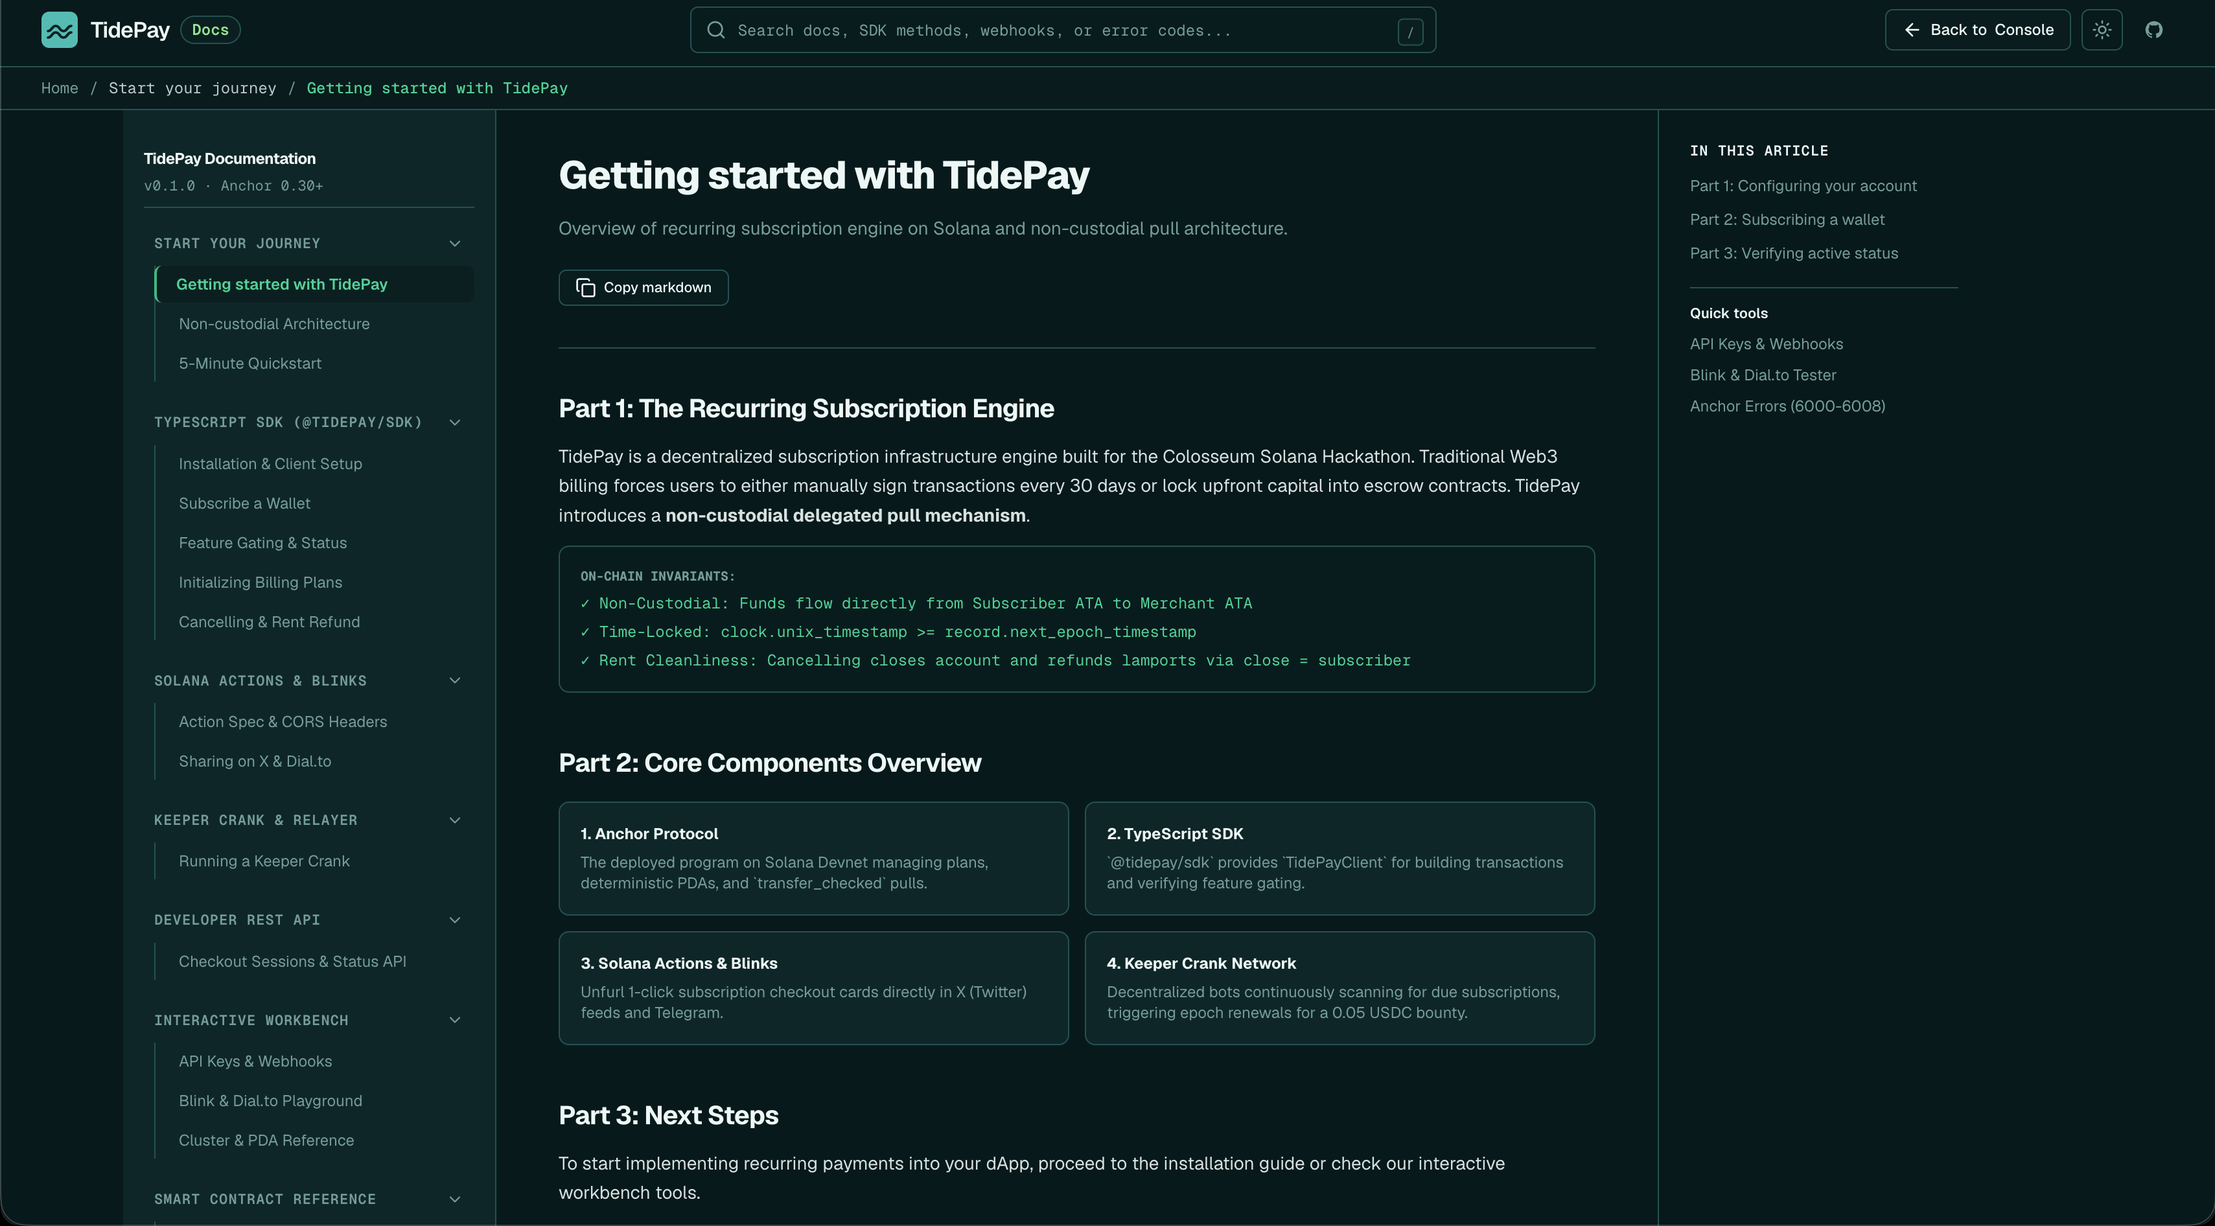
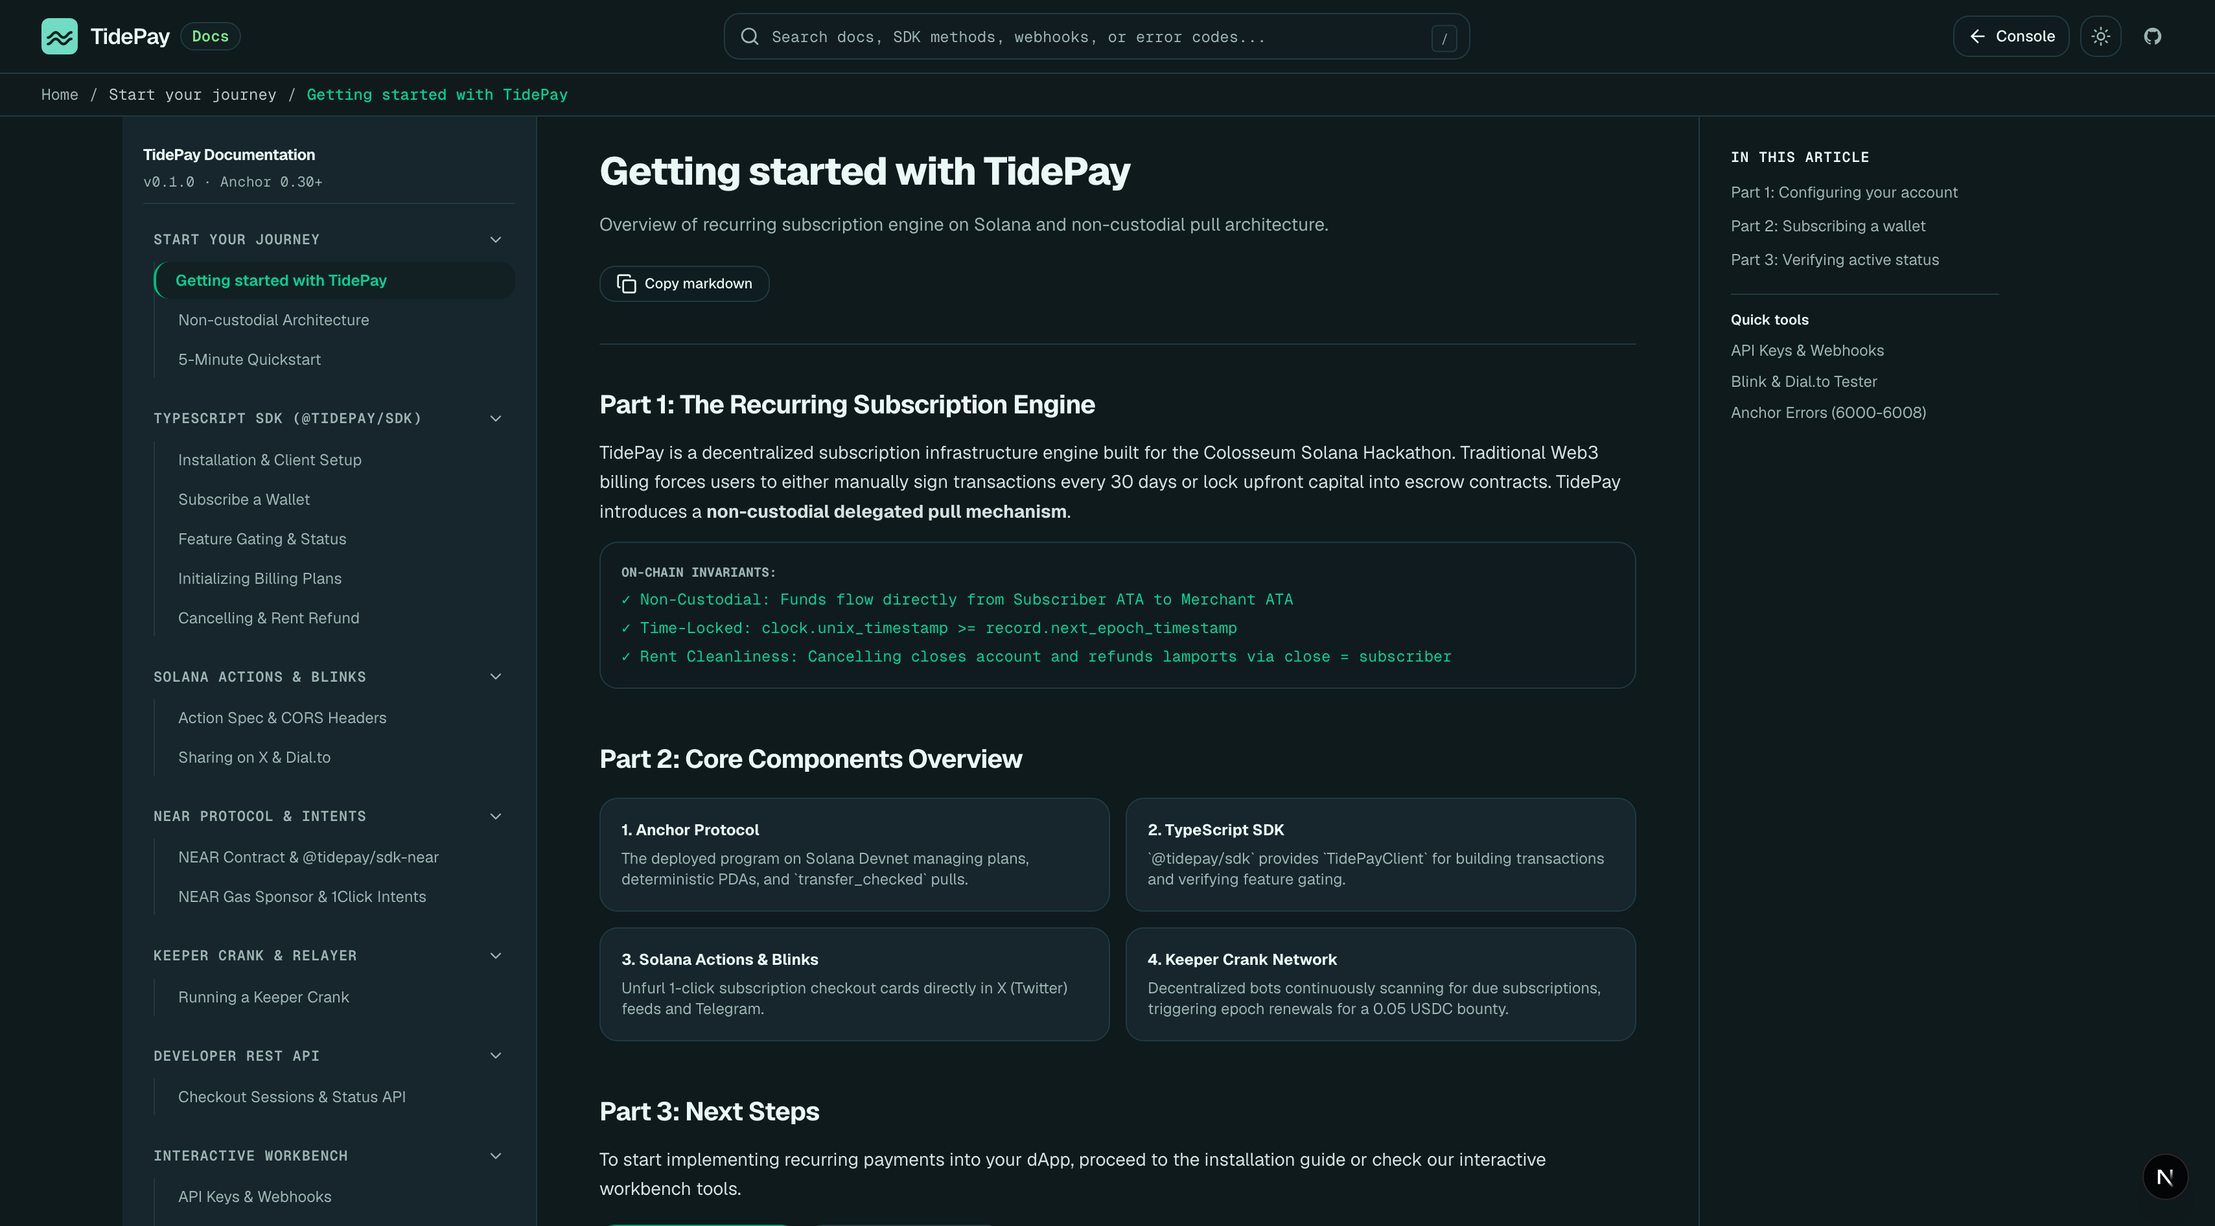
docs: update DEPLOY.md, landing page copy, and docs preview for multi-chain NEAR

diff --git a/apps/web/src/components/changelog-grid.tsx b/apps/web/src/components/changelog-grid.tsx
@@ -10,11 +10,25 @@ interface ChangelogItem {
 
 const changelogItems: ChangelogItem[] = [
   {
+    date: "NOV 14, 2026",
+    title: "Multi-Chain Keeper Crank & Console",
+    description:
+      "Unified Solana + NEAR crank auto-discovery via contract view_state, redesigned Subscribers & Webhooks views, and updated docs.",
+    isLatest: true,
+    commitUrl: "https://github.com/TeddyHuZz/tidepay/commit/205e03e",
+  },
+  {
+    date: "NOV 13, 2026",
+    title: "NEAR Prepaid Protocol & 1Click Intents",
+    description:
+      "Shipped Rust NEAR subscription contract, @tidepay/sdk-near, gasless relayer onboarding, and cross-chain NEAR Intents checkout.",
+    commitUrl: "https://github.com/TeddyHuZz/tidepay/commit/3b61e09",
+  },
+  {
     date: "OCT 11, 2026",
     title: "On-Chain Plan State Controls",
     description:
       "Toggle plan status instructions allowing merchants to pause, resume, and close subscription tiers on-chain.",
-    isLatest: true,
     commitUrl: "https://github.com/TeddyHuZz/tidepay/commit/c3f061e",
   },
   {
@@ -23,20 +37,6 @@ const changelogItems: ChangelogItem[] = [
     description:
       "Project-level API key authorization and HMAC-SHA256 signature verification for automated recurring dunning webhooks.",
     commitUrl: "https://github.com/TeddyHuZz/tidepay/commit/10daa96",
-  },
-  {
-    date: "OCT 10, 2026",
-    title: "Cluster & Custom RPC Switcher",
-    description:
-      "Environment engine supporting seamless cluster switching between Solana Devnet and Mainnet with dedicated RPCs.",
-    commitUrl: "https://github.com/TeddyHuZz/tidepay/commit/a706ffc",
-  },
-  {
-    date: "OCT 09, 2026",
-    title: "Non-Custodial Checkout & Rent Cleanup",
-    description:
-      "Dialect Blink actions, checkout sessions, and deterministic cancellation handlers closing accounts to refund rent.",
-    commitUrl: "https://github.com/TeddyHuZz/tidepay/commit/283956b",
   },
 ];
 

diff --git a/apps/web/src/components/feature-figures.tsx b/apps/web/src/components/feature-figures.tsx
@@ -112,21 +112,21 @@ const figures = [
     label: "FIG 0.1",
     title: "Non-custodial",
     description:
-      "Funds never leave the subscriber's wallet. Each cycle is pulled through a delegated program authority.",
+      "Solana pulls use delegated Token-2022/SPL authority; NEAR subscriptions lock prepaid NEP-141 balances with instant cancel refunds.",
     scene: <IsoScene boxes={walletSlabs} discs={walletCoins} />,
   },
   {
     label: "FIG 0.2",
-    title: "Built for Blinks",
+    title: "Built for Blinks & Intents",
     description:
-      "Plans unfurl as Solana Actions across X, Discord, and Telegram. One click to subscribe.",
+      "Plans unfurl as Solana Blinks across X and Discord, or accept cross-chain deposits via NEAR Intents 1Click.",
     scene: <IsoScene boxes={blinkCubes} />,
   },
   {
     label: "FIG 0.3",
     title: "Settled automatically",
     description:
-      "Keeper cranks settle every due epoch on-chain. No invoices, no reminders, no missed renewals.",
+      "Unified keeper cranks settle due Solana and NEAR epochs on-chain. No invoices, no reminders, no missed renewals.",
     scene: <IsoScene boxes={epochPanels} />,
   },
 ];
@@ -138,8 +138,8 @@ export function FeatureFigures() {
         <h2 className="max-w-4xl text-[28px] font-medium leading-[1.15] tracking-tight text-white sm:text-[36px] md:text-[44px]">
           A new species of payment rail.{" "}
           <span className="text-zinc-500">
-            Purpose-built for recurring revenue on Solana, TidePay replaces custodial escrow with delegated
-            pull billing and autonomous on-chain settlement.
+            Purpose-built for multi-chain recurring revenue, TidePay brings delegated pull billing on Solana
+            and prepaid NEP-141 subscriptions on NEAR into one unified console.
           </span>
         </h2>
 

diff --git a/apps/web/src/components/developer-api-section.tsx b/apps/web/src/components/developer-api-section.tsx
@@ -15,12 +15,13 @@ export function DeveloperApiSection() {
           </h2>
           <div>
             <p className="text-base leading-relaxed text-zinc-400 sm:text-lg">
-              Integrate automated non-custodial recurring billing into your stack in minutes.
-              Listen for on-chain crank settlements via HMAC-SHA256 signed webhooks,
-              and query subscription states using type-safe TypeScript SDKs.
+              Integrate automated multi-chain recurring billing in minutes. Listen for Solana and NEAR
+              crank settlements via HMAC-SHA256 webhooks, fund checkouts via NEAR Intents, and query
+              state using <code className="text-zinc-200">@tidepay/sdk</code> and{" "}
+              <code className="text-zinc-200">@tidepay/sdk-near</code>.
             </p>
             <a
-              href={`${DASHBOARD_URL}/webhooks-api`}
+              href={`${DASHBOARD_URL}/webhooks`}
               target="_blank"
               rel="noopener noreferrer"
               className="group mt-6 inline-flex items-center gap-1.5 text-sm text-zinc-400 transition hover:text-white"

diff --git a/apps/web/src/components/hero-preview.tsx b/apps/web/src/components/hero-preview.tsx
@@ -9,13 +9,14 @@ export function HeroPreview() {
         {/* Headline */}
         <h1 className="max-w-4xl text-[40px] font-medium leading-[1.05] tracking-tight text-white sm:text-[52px] md:text-[64px]">
           The recurring billing engine
-          <br className="hidden sm:block" /> for Solana merchants
+          <br className="hidden sm:block" /> for Solana &amp; NEAR
         </h1>
 
         {/* Subline + announcement */}
         <div className="mt-6 flex flex-col gap-4 sm:flex-row sm:items-center sm:justify-between">
           <p className="max-w-xl text-base leading-relaxed text-zinc-400">
-            Non-custodial subscriptions with delegated pull billing. Designed for Solana Blinks.
+            Non-custodial subscriptions across Solana delegated pulls, NEAR prepaid NEP-141 epochs,
+            and cross-chain NEAR Intents.
           </p>
           <a
             href={DASHBOARD_URL}

diff --git a/apps/web/src/components/subscriber-section.tsx b/apps/web/src/components/subscriber-section.tsx
@@ -140,8 +140,8 @@ export function SubscriberSection() {
           </h2>
           <div>
             <p className="text-base leading-relaxed text-zinc-400 sm:text-lg">
-              Monitor active delegated pull allowances, upcoming renewal epochs, and full cancellation histories.
-              When a subscriber churns, their on-chain account closes cleanly and rent lamports return to their wallet.
+              Monitor delegated Solana allowances, prepaid NEAR epochs, upcoming renewals, and full cancellation
+              histories. Churned subscribers automatically reclaim Solana rent lamports or unused prepaid USDC.
             </p>
             <a
               href={`${DASHBOARD_URL}/subscribers`}

diff --git a/apps/web/src/components/developer-guide-section.tsx b/apps/web/src/components/developer-guide-section.tsx
@@ -169,9 +169,8 @@ export function DeveloperGuideSection() {
           </h2>
           <div>
             <p className="text-base leading-relaxed text-zinc-400 sm:text-lg">
-              Streamline subscription engineering with step-by-step guides, verified Anchor
-              IDL interfaces, and interactive developer sandboxes. Keep integration code
-              lean without custodial escrow overhead.
+              Streamline subscription engineering with multi-chain quickstarts, Anchor IDL &amp; NEAR
+              NEP-141 references, and NEAR Intents cross-chain checkout flows without custodial overhead.
             </p>
             <a
               href={`${DASHBOARD_URL}/docs`}

diff --git a/apps/web/src/components/distribution-section.tsx b/apps/web/src/components/distribution-section.tsx
@@ -81,8 +81,8 @@ export function DistributionSection() {
           </h2>
           <div>
             <p className="text-base leading-relaxed text-zinc-400 sm:text-lg">
-              Launch a plan in one transaction, then share it anywhere as a Solana Blink or checkout link.
-              Every renewal settles on-chain and lands in your dashboard.
+              Launch a Solana or NEAR plan in one transaction, then share it as a Solana Blink, hosted
+              checkout link, or cross-chain NEAR Intents flow. Every renewal settles on-chain.
             </p>
             <a
               href={`${DASHBOARD_URL}/plans/new`}

diff --git a/apps/web/src/components/partners-bar.tsx b/apps/web/src/components/partners-bar.tsx
@@ -1,10 +1,10 @@
 export function PartnersBar() {
   const partners = [
-    { name: "Solana", label: "SOLANA FOUNDATION" },
-    { name: "Token-2022", label: "TOKEN EXTENSIONS" },
+    { name: "Solana", label: "SOLANA & TOKEN-2022" },
+    { name: "NEAR Protocol", label: "PREPAID NEP-141" },
+    { name: "NEAR Intents", label: "1CLICK CROSS-CHAIN" },
     { name: "Dialect", label: "SOLANA ACTIONS & BLINKS" },
     { name: "Phantom", label: "DELEGATED SESSIONS" },
-    { name: "Backpack", label: "WALLET STANDARD" },
     { name: "Colosseum", label: "COLOSSEUM 2026" },
   ];
 

diff --git a/DEPLOY.md b/DEPLOY.md
@@ -1,10 +1,10 @@
 # Deploying TidePay
 
-The landing page, merchant dashboard, and Actions API deploy as **three Vercel projects from this one repository**. Blink clients such as dial.to only load Actions over public HTTPS, so the API must be deployed before the Blink can be validated.
+TidePay deploys as **three Vercel Next.js projects** (`apps/web`, `apps/dashboard`, `apps/api`) plus **one Render backend service** running the unified Solana + NEAR keeper crank (`packages/protocol/crank`). Blink clients such as dial.to only load Actions over public HTTPS, so the API must be deployed before Blinks can be validated.
 
-## 1. Create the projects
+## 1. Vercel projects (web, dashboard, API)
 
-In Vercel, import the GitHub repository:
+In Vercel, import the GitHub repository for each app:
 
 | Project | Root Directory | Framework | Domain |
 | --- | --- | --- | --- |
@@ -12,13 +12,13 @@ In Vercel, import the GitHub repository:
 | `tidepay-dashboard` | `apps/dashboard` | Next.js | `https://app-tidepay.vercel.app` |
 | `tidepay-api` | `apps/api` | Next.js | `https://api-tidepay.vercel.app` |
 
-Leave the build and install commands at their defaults. Vercel detects the pnpm workspace and installs from the repository root, so `@tidepay/sdk` and `@tidepay/types` resolve. If the install step fails on the pnpm version, add `ENABLE_EXPERIMENTAL_COREPACK=1` as an environment variable so Vercel uses the pinned `pnpm@12.10.1`.
+Leave the build and install commands at their defaults. Vercel detects the pnpm workspace and installs from the repository root, so `@tidepay/sdk`, `@tidepay/sdk-near`, and `@tidepay/types` resolve. If the install step fails on the pnpm version, set `ENABLE_EXPERIMENTAL_COREPACK=1` so Vercel uses the pinned `pnpm@12.10.1`.
 
-Deploy each project once to get its URL, then set the variables below and redeploy. `NEXT_PUBLIC_*` values are inlined at build time, so changing one needs a redeploy.
+Deploy each project once to get its URL, then set the variables below and redeploy. `NEXT_PUBLIC_*` values are inlined at build time, so changing one requires a redeploy.
 
-## 2. Environment variables
+## 2. Vercel environment variables
 
-**`tidepay-landing`**
+**`tidepay-landing`** (`apps/web`)
 
 | Variable | Value |
 | --- | --- |
@@ -26,29 +26,60 @@ Deploy each project once to get its URL, then set the variables below and redepl
 | `NEXT_PUBLIC_DASHBOARD_URL` | `https://<dashboard-project>.vercel.app` |
 | `NEXT_PUBLIC_API_URL` | `https://<api-project>.vercel.app` |
 
-**`tidepay-api`**
+**`tidepay-api`** (`apps/api`)
 
 | Variable | Value |
 | --- | --- |
 | `NEXT_PUBLIC_API_URL` | `https://<api-project>.vercel.app` |
 | `NEXT_PUBLIC_DASHBOARD_URL` | `https://<dashboard-project>.vercel.app` |
-| `NEXT_PUBLIC_SOLANA_RPC_URL` | A Devnet RPC (a dedicated provider is more reliable than the public endpoint) |
-| `RELAYER_SECRET_KEY` | Relayer keypair as a JSON byte array. Mark it **Sensitive** |
-| `RELAYER_ALLOWED_MERCHANTS` | The demo merchant's wallet address |
+| `NEXT_PUBLIC_SOLANA_RPC_URL` | Solana Devnet RPC (dedicated provider recommended, e.g. Helius) |
+| `SOLANA_RPC_URL` | Same Solana Devnet RPC (server-side Actions & relayer) |
+| `RELAYER_SECRET_KEY` | Solana relayer keypair as a JSON byte array (**Sensitive**) |
+| `RELAYER_ALLOWED_MERCHANTS` | Allowed Solana merchant wallet addresses (comma-separated) |
+| `NEAR_NETWORK_ID` | `testnet` |
+| `NEAR_SPONSOR_ACCOUNT_ID` | Funded NEAR testnet account paying gas sponsorship (`*.testnet`) |
+| `NEAR_SPONSOR_PRIVATE_KEY` | Matching `ed25519:...` private key for `NEAR_SPONSOR_ACCOUNT_ID` (**Sensitive**) |
 
-**`tidepay-dashboard`**
+**`tidepay-dashboard`** (`apps/dashboard`)
 
 | Variable | Value |
 | --- | --- |
 | `NEXT_PUBLIC_APP_URL` | `https://<dashboard-project>.vercel.app` |
 | `NEXT_PUBLIC_API_URL` | `https://<api-project>.vercel.app` |
-| `NEXT_PUBLIC_SOLANA_RPC_URL` | Same Devnet RPC |
-| `NEXT_PUBLIC_DEMO_PLAN_ADDRESS` | The demo plan's address, once created (empty keeps `/demo` in mock mode) |
-| `NEXT_PUBLIC_USE_SAMPLE_DATA` | `1` only for a UI-only deployment before the program is live |
+| `NEXT_PUBLIC_SOLANA_RPC_URL` | Solana Devnet RPC (dedicated provider recommended) |
+| `NEXT_PUBLIC_TIDEPAY_NEAR_CONTRACT` | Deployed NEAR contract ID (e.g. `tidepay-mw1rpoyp.tidepay-e2e-mw1rpm6j.testnet`) |
+| `NEXT_PUBLIC_NEAR_RPC_URL` | Optional NEAR RPC URL (defaults to `https://test.rpc.fastnear.com`) |
+| `DATABASE_URL` | Neon Postgres connection string for projects & `/api/settlements` cache (**Sensitive**) |
+| `NEXT_PUBLIC_DEMO_PLAN_ADDRESS` | Optional Solana demo plan address |
+| `NEXT_PUBLIC_USE_SAMPLE_DATA` | `1` only for UI-only preview deployments |
 
-## 3. Relayer wallet
+## 3. Unified Keeper Crank on Render (`@tidepay/crank`)
 
-The relayer pays network fees and rent so a wallet with no SOL can subscribe. Use a dedicated Devnet key and never one that holds real funds.
+`packages/protocol/crank` runs both `TidePayCrankWorker` (Solana) and `startNearCrankFromEnv()` (`@tidepay/crank-near`) in a single process with an HTTP health endpoint on `PORT`.
+
+- **Root Directory:** leave blank (monorepo root)
+- **Build Command:** `pnpm install --frozen-lockfile`
+- **Start Command:** `pnpm --filter @tidepay/crank start`
+
+Set these environment variables in Render:
+
+| Variable | Value |
+| --- | --- |
+| `SOLANA_RPC_URL` | Dedicated Solana Devnet RPC URL |
+| `CRANK_SECRET_KEY` | Solana crank keeper keypair JSON byte array (**Sensitive**) |
+| `POLL_INTERVAL_MS` | `15000` (Solana poll interval in ms) |
+| `TIDEPAY_NEAR_CONTRACT_ID` | Deployed NEAR contract account ID |
+| `NEAR_NETWORK_ID` | `testnet` |
+| `NEAR_CRANK_ACCOUNT_ID` | Funded NEAR testnet keeper account (can share `NEAR_SPONSOR_ACCOUNT_ID`) |
+| `NEAR_CRANK_PRIVATE_KEY` | Matching `ed25519:...` private key (**Sensitive**) |
+| `NEAR_RPC_URL` | `https://rpc.testnet.near.org` (or dedicated testnet RPC) |
+| `NEAR_CRANK_POLL_MS` | `10000` (NEAR `view_state` poll interval in ms) |
+
+> On NEAR, the crank discovers new subscribers automatically via RPC `view_state` (`b"s"` prefix), skips depleted prepaid balances, and registers keeper token storage once when claiming bounties (`NEAR_CRANK_WATCH` is optional).
+
+## 4. Solana Relayer wallet
+
+The Solana relayer pays network fees and rent so a wallet with no SOL can subscribe. Use a dedicated Devnet key and never one that holds real funds.
 
 1. Generate a key (or reuse the one in `apps/api/.env.local`, which is gitignored):
    ```bash
@@ -58,15 +89,11 @@ The relayer pays network fees and rent so a wallet with no SOL can subscribe. Us
 2. Fund the printed address with 1–2 SOL from <https://faucet.solana.com> (Devnet).
 3. Put the byte array in `RELAYER_SECRET_KEY` and the merchant wallet in `RELAYER_ALLOWED_MERCHANTS`.
 
-Each sponsored subscribe costs the relayer up to about 0.005 SOL (token account rent, the subscriber's rent top-up and the fee), so 1 SOL covers roughly 200 sign-ups.
+## 5. Post-deploy verification
 
-## 4. After the program is on Devnet
-
-1. Open the dashboard, connect the merchant wallet and create a plan with the **60s demo** interval.
-2. Set `NEXT_PUBLIC_DEMO_PLAN_ADDRESS` on the dashboard to that plan's address and redeploy.
-3. Validate the Blink: paste `https://<api-project>.vercel.app/api/actions/subscribe/<plan>` into <https://dial.to> and the Dialect Blinks inspector.
-4. Subscribe from checkout and from dial.to, including once from a wallet with USDC but no SOL, and check the dashboard picks up the renewal after the crank runs.
-5. To have Blinks unfurl on X, register the API domain with Dialect's Actions registry.
+1. Open the dashboard, sign in, and create a plan on **Solana Devnet** or **NEAR Testnet** with a **60s demo** interval.
+2. Validate Solana Blinks: paste `https://<api-project>.vercel.app/api/actions/subscribe/<plan>` into <https://dial.to>.
+3. Subscribe on checkout (and top up/cancel on NEAR) and verify automatic epoch renewals settle after ~60s.
 
 ## Checks
 
@@ -74,4 +101,7 @@ Each sponsored subscribe costs the relayer up to about 0.005 SOL (token account 
 curl -i https://<api-project>.vercel.app/actions.json                     # 200, Actions CORS headers
 curl -i https://<api-project>.vercel.app/api/actions/subscribe/<plan>     # 200, X-Blockchain-Ids: Devnet
 curl -i https://<dashboard-project>.vercel.app/checkout/not-a-plan        # 404
+curl -s https://<render-crank>.onrender.com/                              # {"status":"ok","nearCrankEnabled":true,...}
+curl -X POST https://<api-project>.vercel.app/api/near/intents/quote -H 'content-type: application/json' \
+  -d '{"originAsset":"nep141:sol-5ce3bf3a31af18be40ba30f721101b4341690186.omft.near","amount":"10000000","refundTo":"<solana-address>","recipient":"alice.near","dry":true}'
 ```
